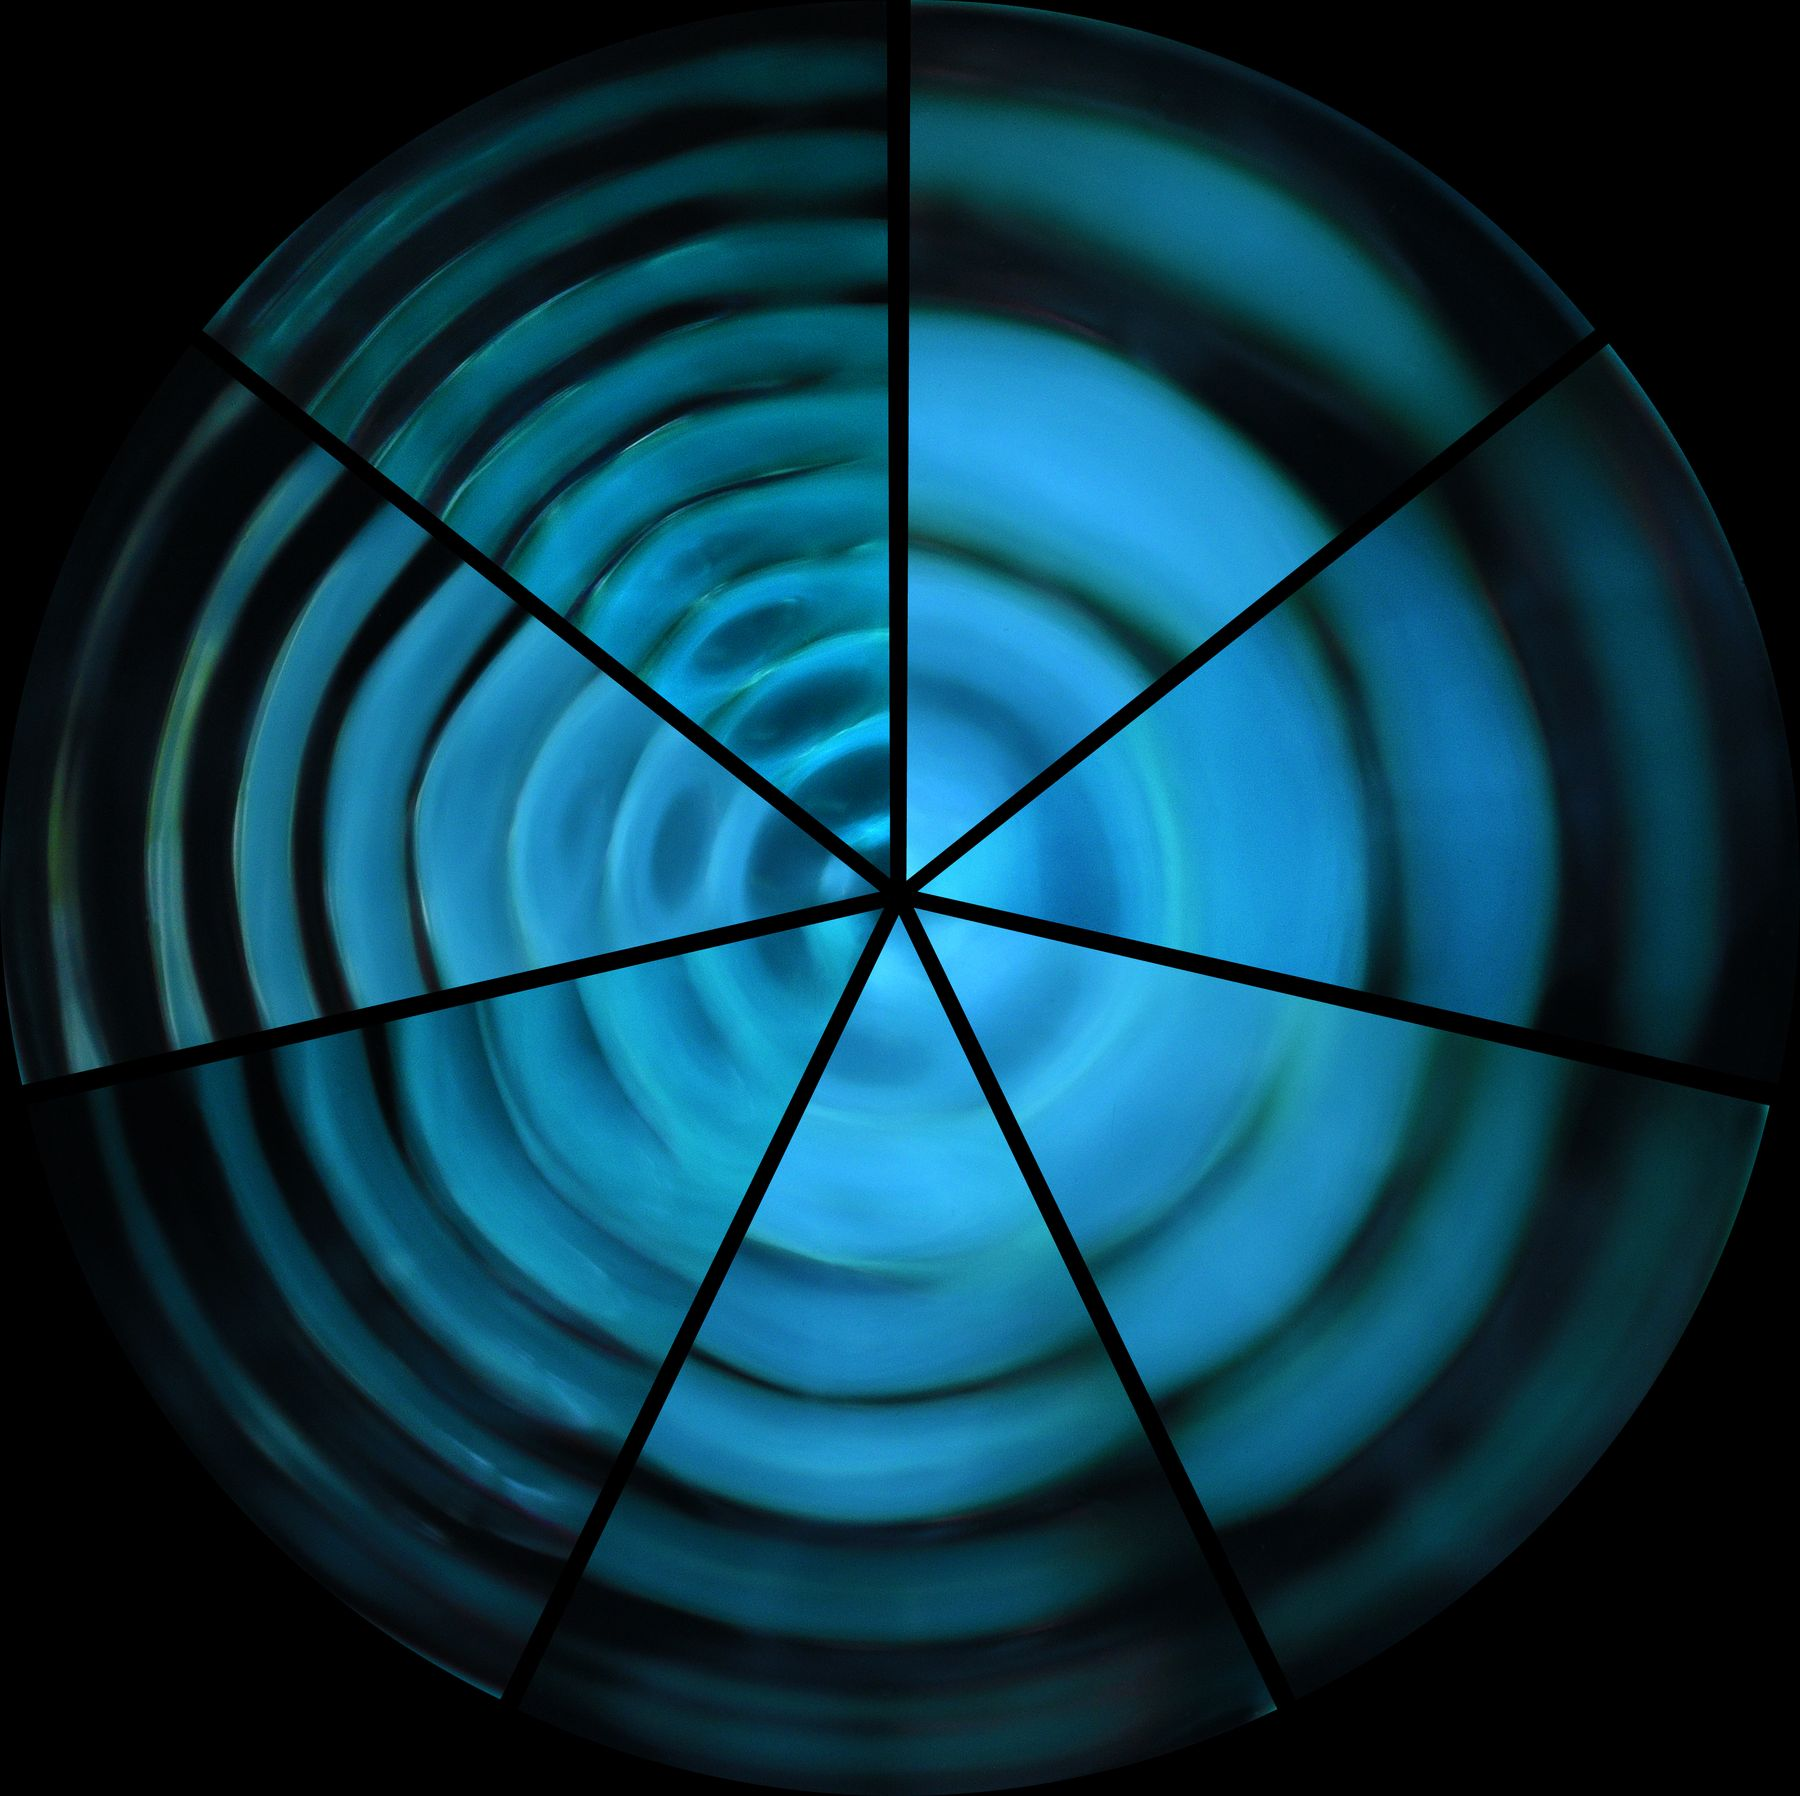
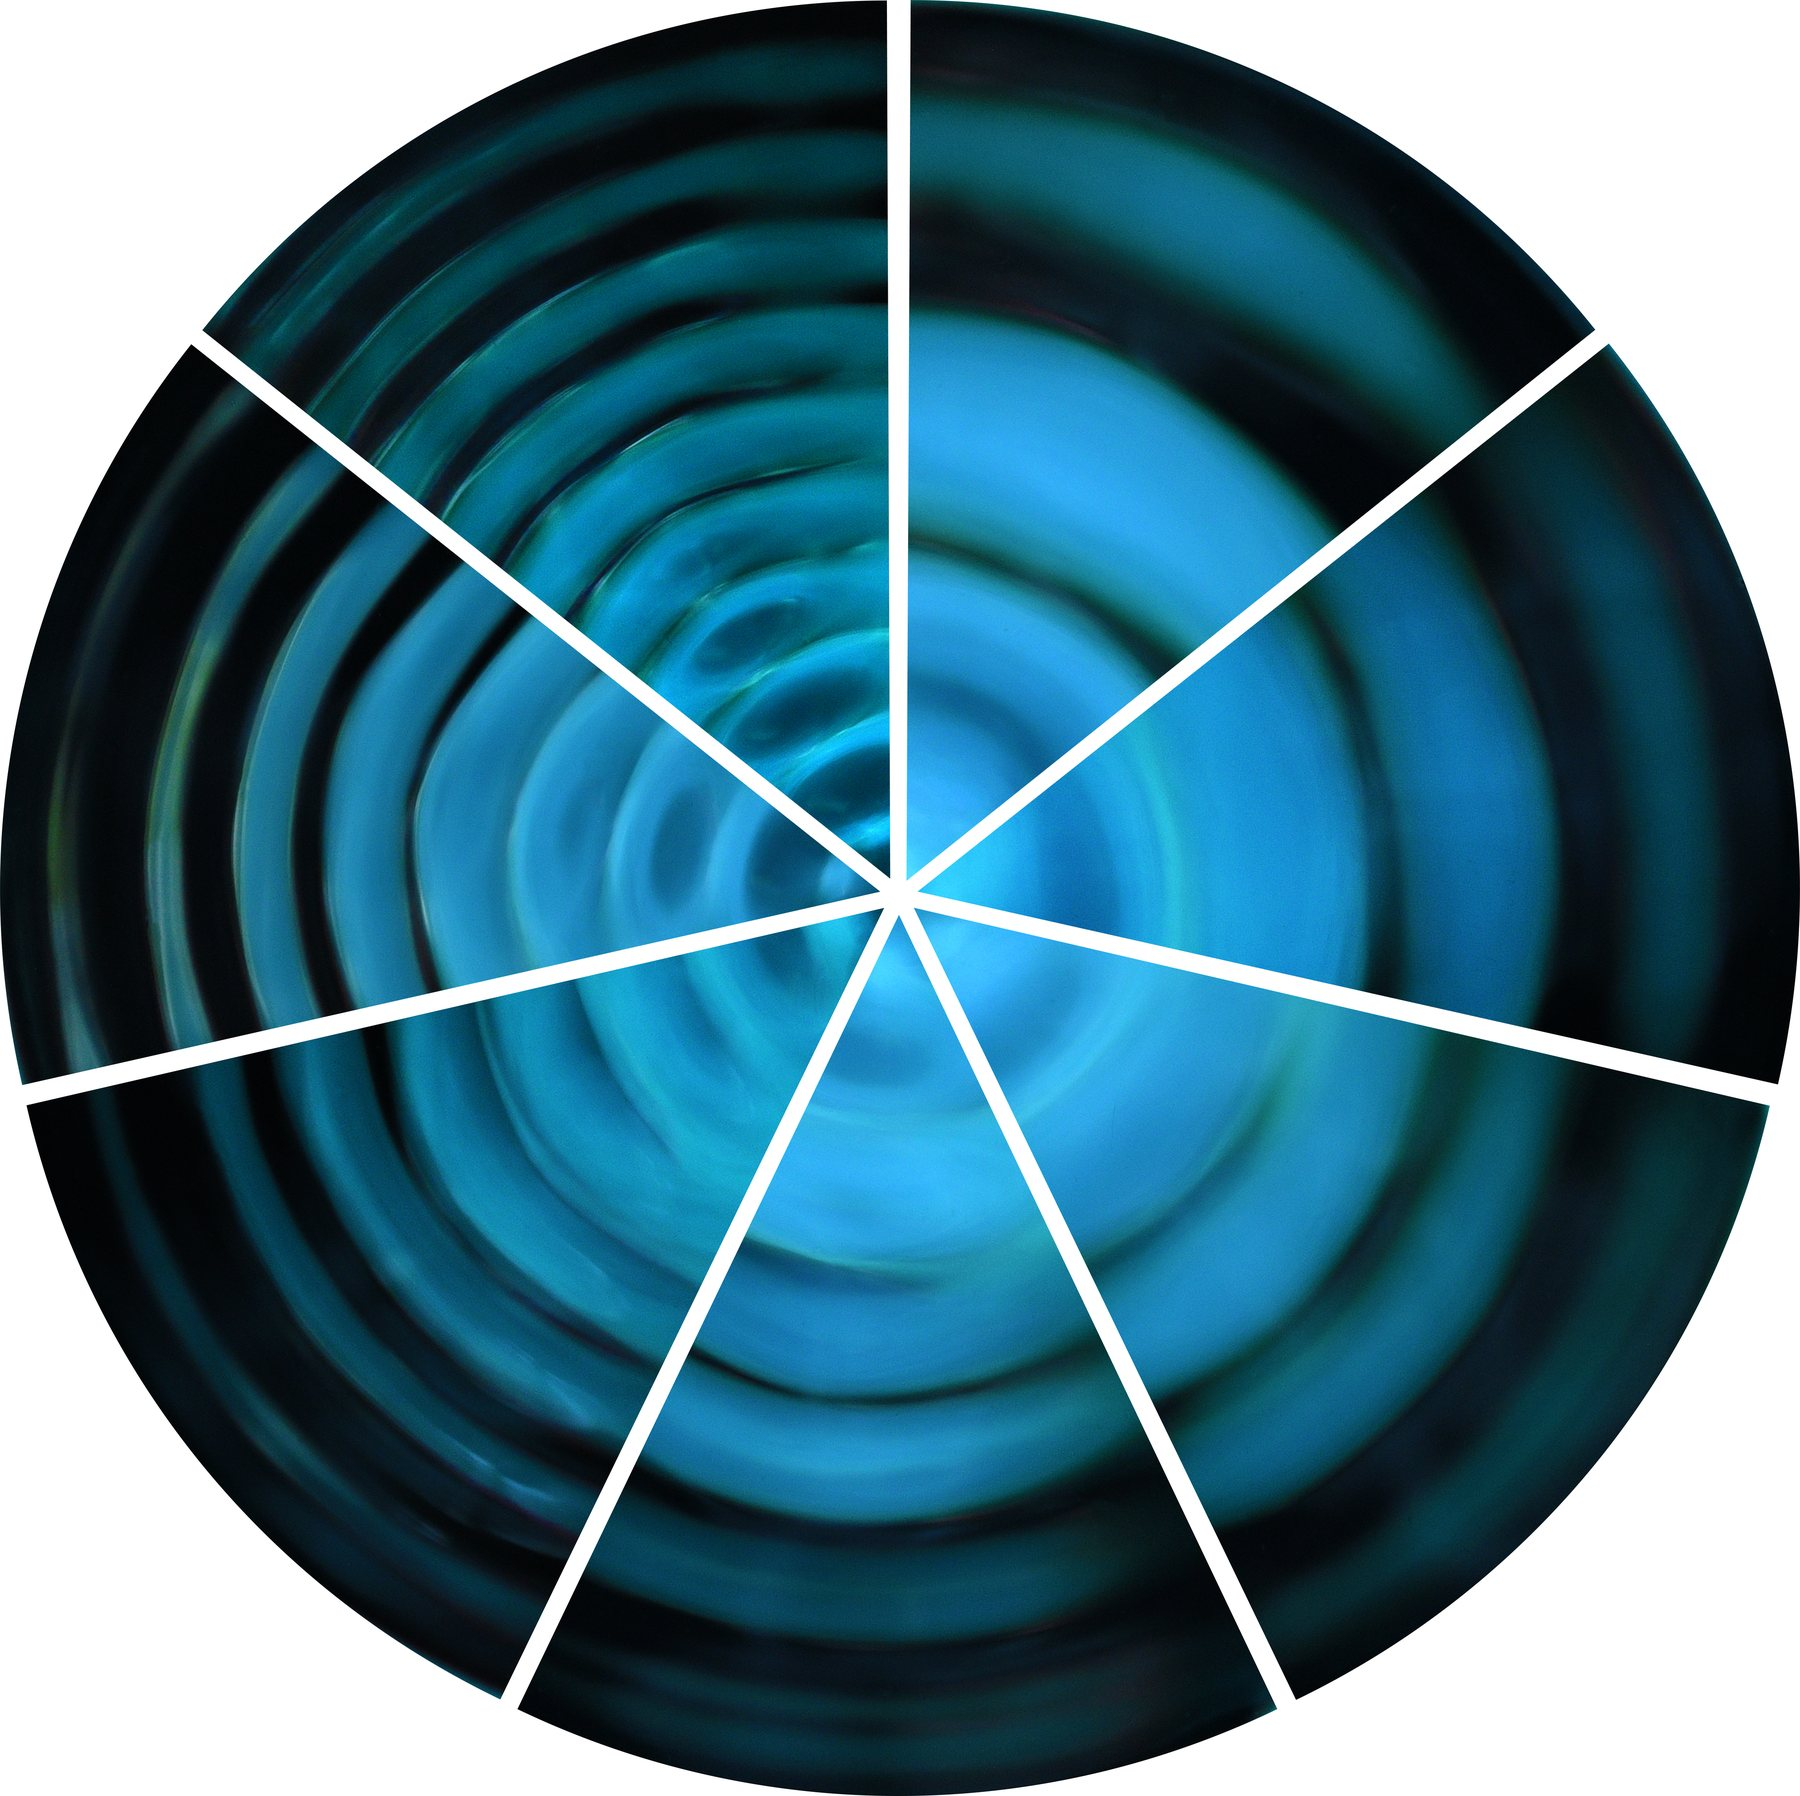
Gallery: replace Wheel of frequency image
Claude-Session: https://claude.ai/code/session_01CC6MZU2aXArRKL4o1QNiyw

diff --git a/gallery.html b/gallery.html
@@ -105,8 +105,8 @@
           </div>
           <div class="masonry__col">
             <figure class="tile">
-              <a href="assets/web/gallery/wheel-of-frequency.jpg" data-lightbox data-caption="Wheel of frequency" data-full="assets/Images/WheelOfFrequency.png">
-                <img src="assets/web/gallery/wheel-of-frequency.jpg" alt="Wheel of frequency" width="1800" height="1796" loading="lazy" decoding="async">
+              <a href="assets/web/gallery/wheel-of-frequency.jpg?v=2" data-lightbox data-caption="Wheel of frequency" data-full="assets/Images/WheelOfFrequency.jpg">
+                <img src="assets/web/gallery/wheel-of-frequency.jpg?v=2" alt="Wheel of frequency" width="1800" height="1796" loading="lazy" decoding="async">
               </a>
               <figcaption>Wheel of frequency</figcaption>
             </figure>
